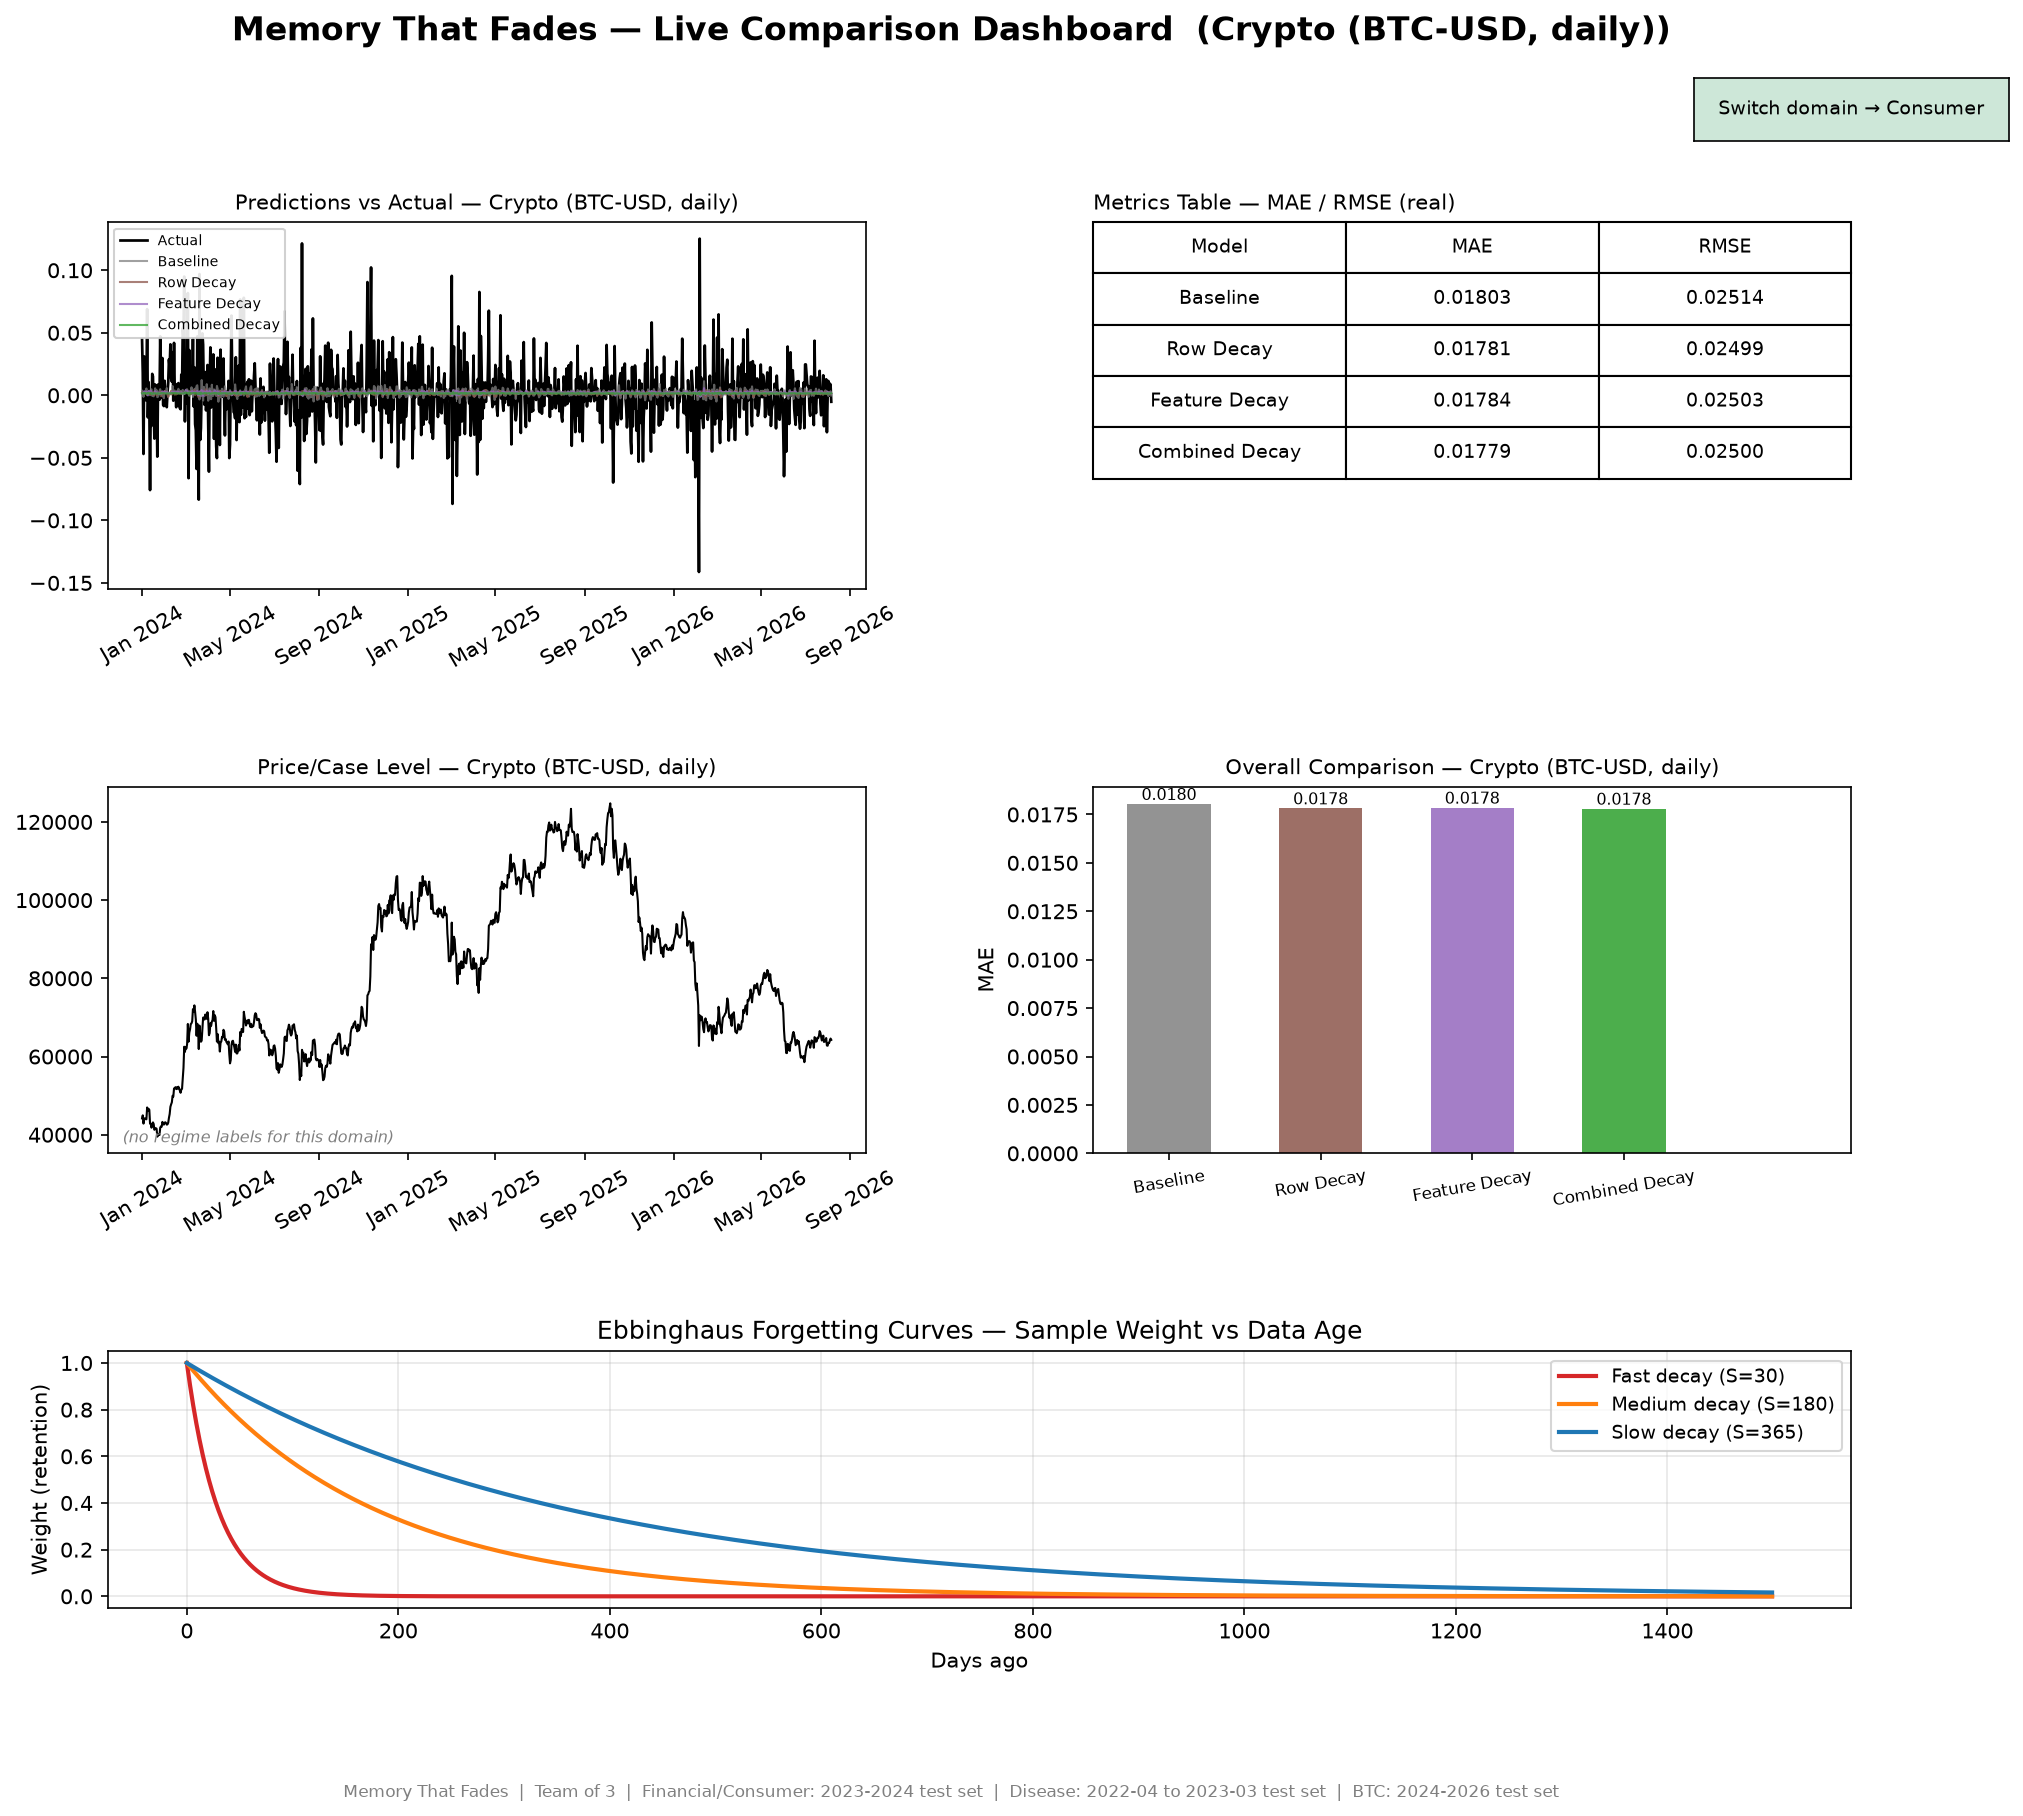
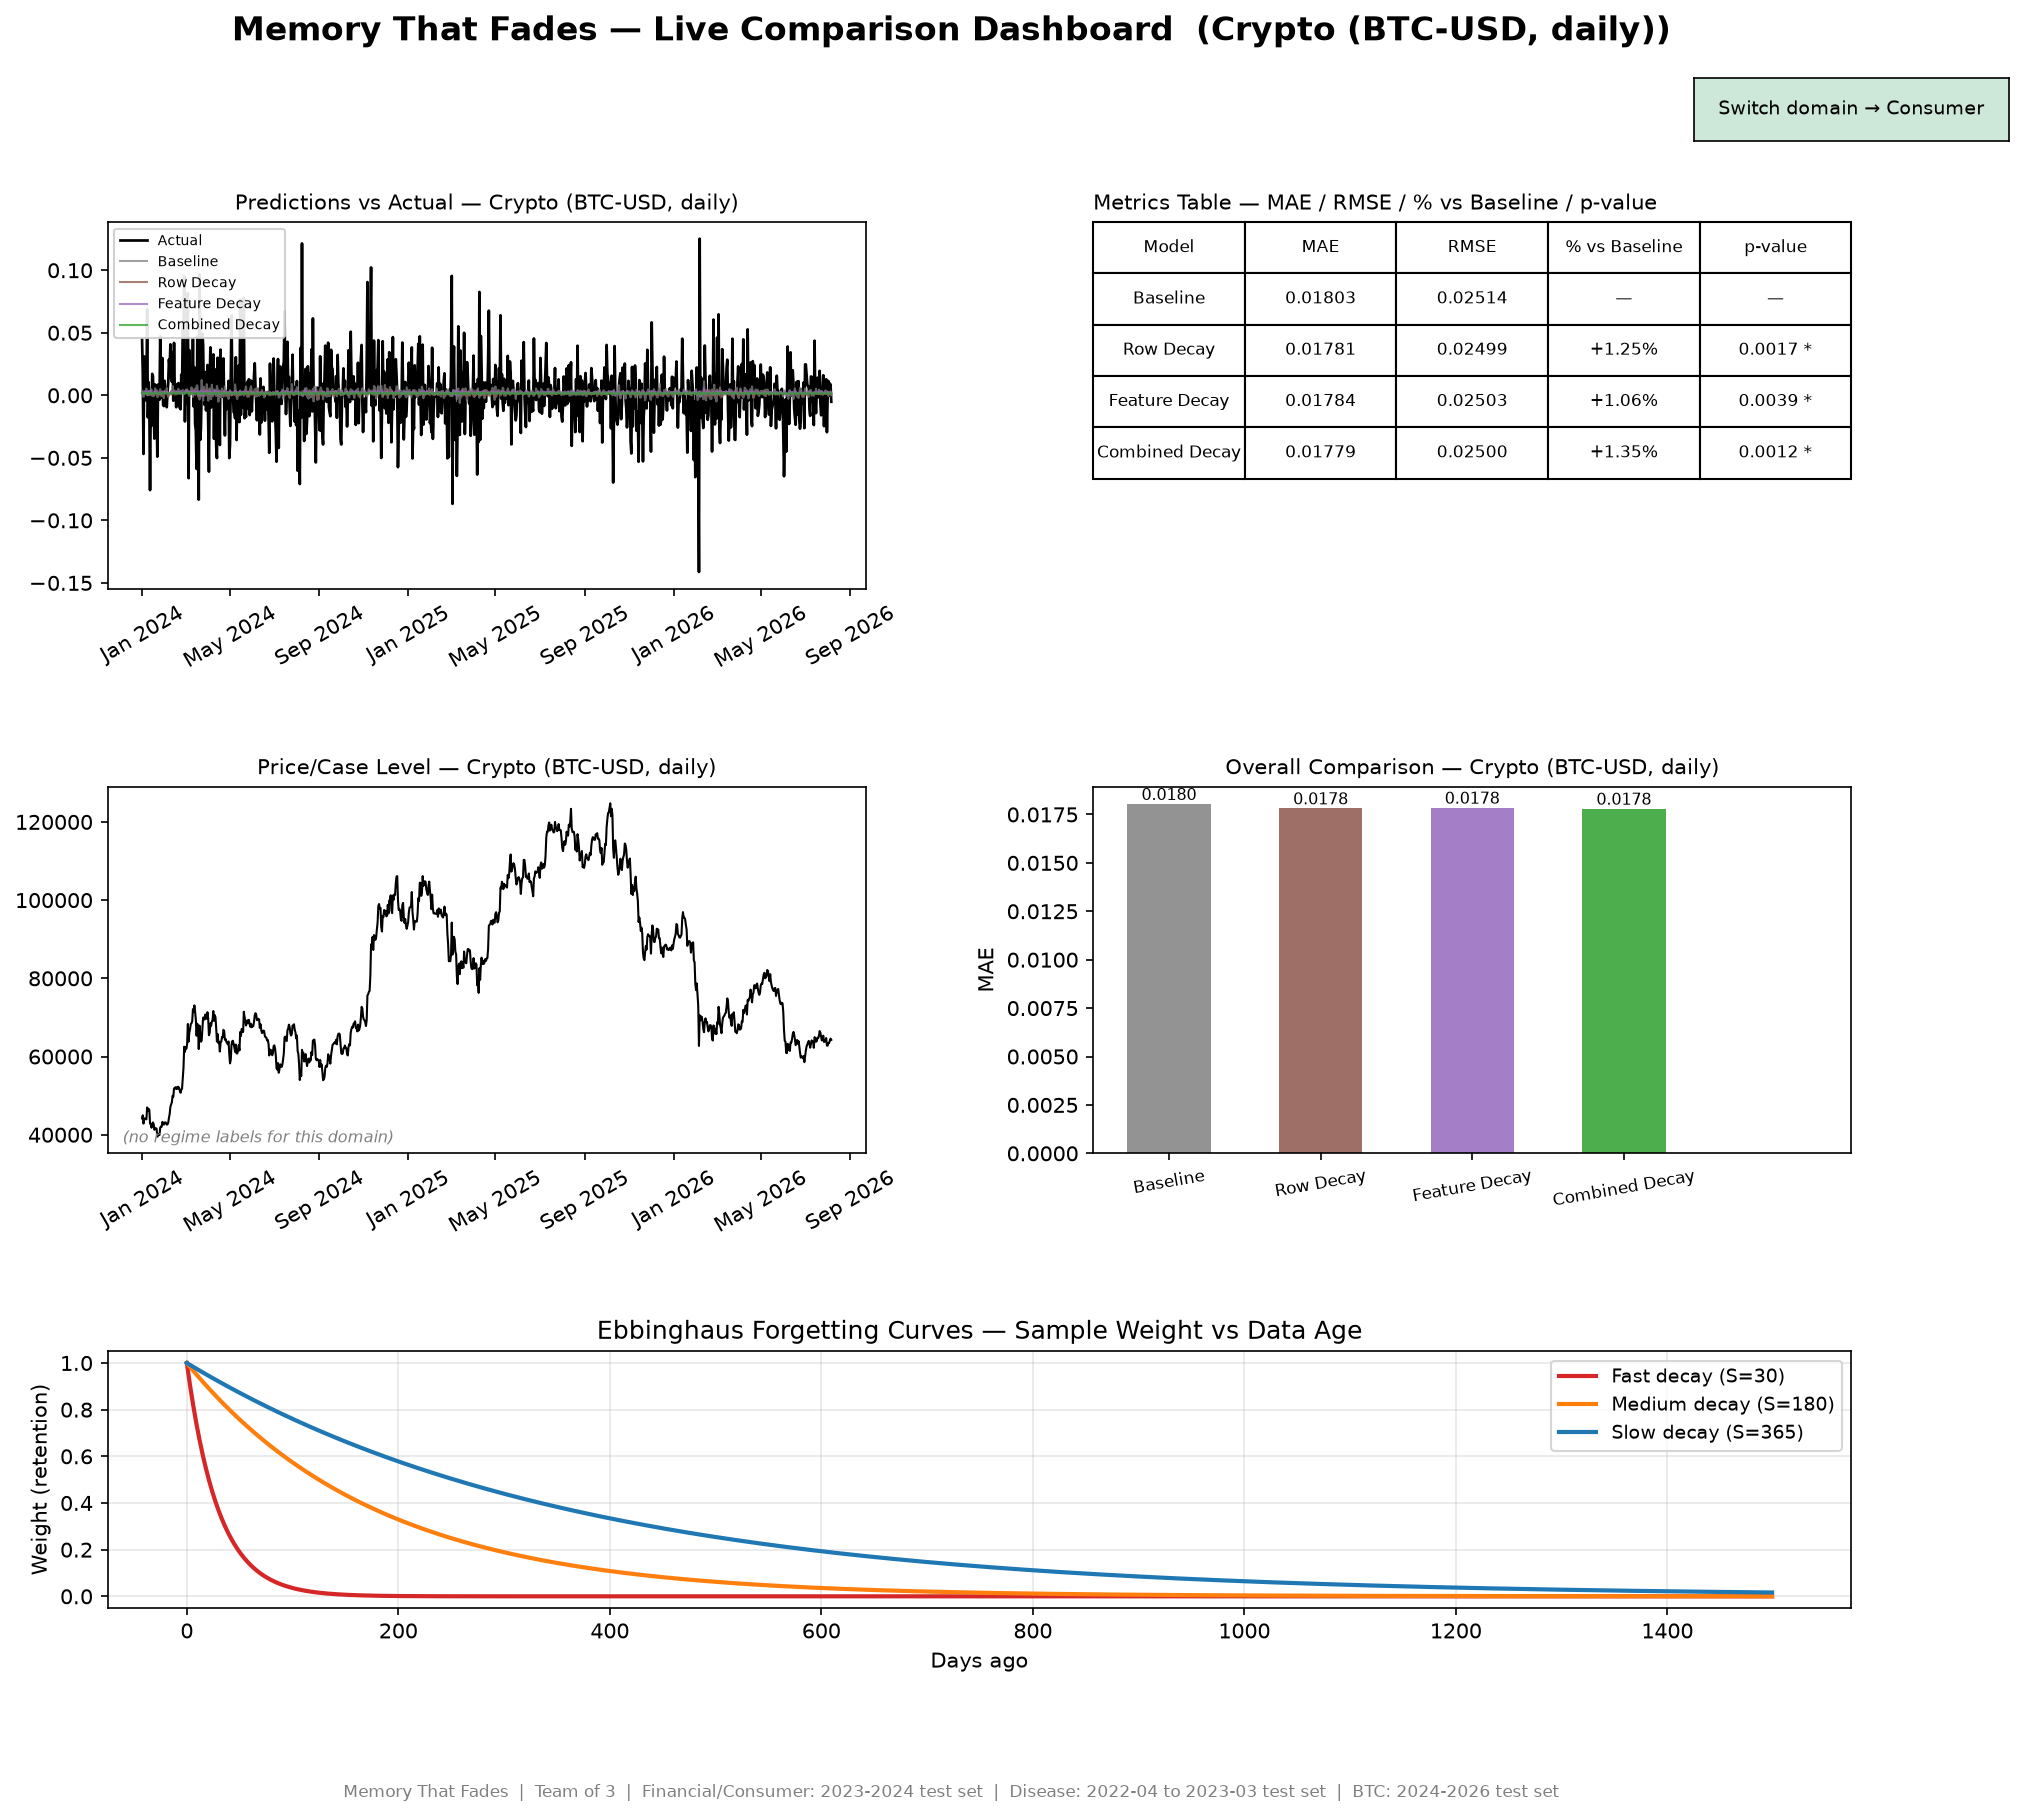
dashboard

diff --git a/dashboard/dashboard.py b/dashboard/dashboard.py
@@ -28,6 +28,7 @@ import pandas as pd
 import matplotlib.pyplot as plt
 import matplotlib.dates as mdates
 from matplotlib.widgets import Slider, Button
+from scipy import stats
 
 SCRIPT_DIR = os.path.dirname(os.path.abspath(__file__))
 PROJECT_ROOT = os.path.dirname(SCRIPT_DIR)  # dashboard/ sits directly under project root
@@ -247,13 +248,34 @@ def build_dashboard():
         # height but never squishes/stretches individual rows differently per domain ---
         ax_table.clear()
         ax_table.axis("off")
-        ax_table.set_title("Metrics Table — MAE / RMSE (real)", loc="left", fontsize=10)
-        rows = [[name, f"{mae_rmse(y, preds[name])[0]:.5f}", f"{mae_rmse(y, preds[name])[1]:.5f}"] for name in model_names]
+        if domain_key == "btc" and "Baseline" in preds:
+            # BTC-only: show % improvement vs baseline and p-value so the panel doesn't
+            # have to eyeball small MAE differences -- other domains' tables untouched
+            ax_table.set_title("Metrics Table — MAE / RMSE / % vs Baseline / p-value", loc="left", fontsize=10)
+            base_err_row = np.abs(y - preds["Baseline"])
+            base_mae = base_err_row.mean()
+            rows = []
+            for name in model_names:
+                err = np.abs(y - preds[name])
+                mae, rmse = mae_rmse(y, preds[name])
+                pct = 100 * (base_mae - mae) / base_mae
+                if name == "Baseline":
+                    pct_str, p_str = "—", "—"
+                else:
+                    _, p_val = stats.ttest_rel(err, base_err_row)
+                    pct_str = f"{pct:+.2f}%"
+                    p_str = f"{p_val:.4f}" + (" *" if p_val < 0.05 else "")
+                rows.append([name, f"{mae:.5f}", f"{rmse:.5f}", pct_str, p_str])
+            col_labels = ["Model", "MAE", "RMSE", "% vs Baseline", "p-value"]
+        else:
+            ax_table.set_title("Metrics Table — MAE / RMSE (real)", loc="left", fontsize=10)
+            rows = [[name, f"{mae_rmse(y, preds[name])[0]:.5f}", f"{mae_rmse(y, preds[name])[1]:.5f}"] for name in model_names]
+            col_labels = ["Model", "MAE", "RMSE"]
         row_h = 0.14  # fixed height per row, identical across every domain
-        table = ax_table.table(cellText=rows, colLabels=["Model", "MAE", "RMSE"], cellLoc="center",
+        table = ax_table.table(cellText=rows, colLabels=col_labels, cellLoc="center",
                                 bbox=[0.0, 1.0 - row_h * (n + 1), 1.0, row_h * (n + 1)])
         table.auto_set_font_size(False)
-        table.set_fontsize(9)
+        table.set_fontsize(9 if domain_key != "btc" else 8)
 
         # --- context panel: price/level line, with regime shading overlaid IF this
         # domain has it -- the plot itself is always the same shape either way ---
